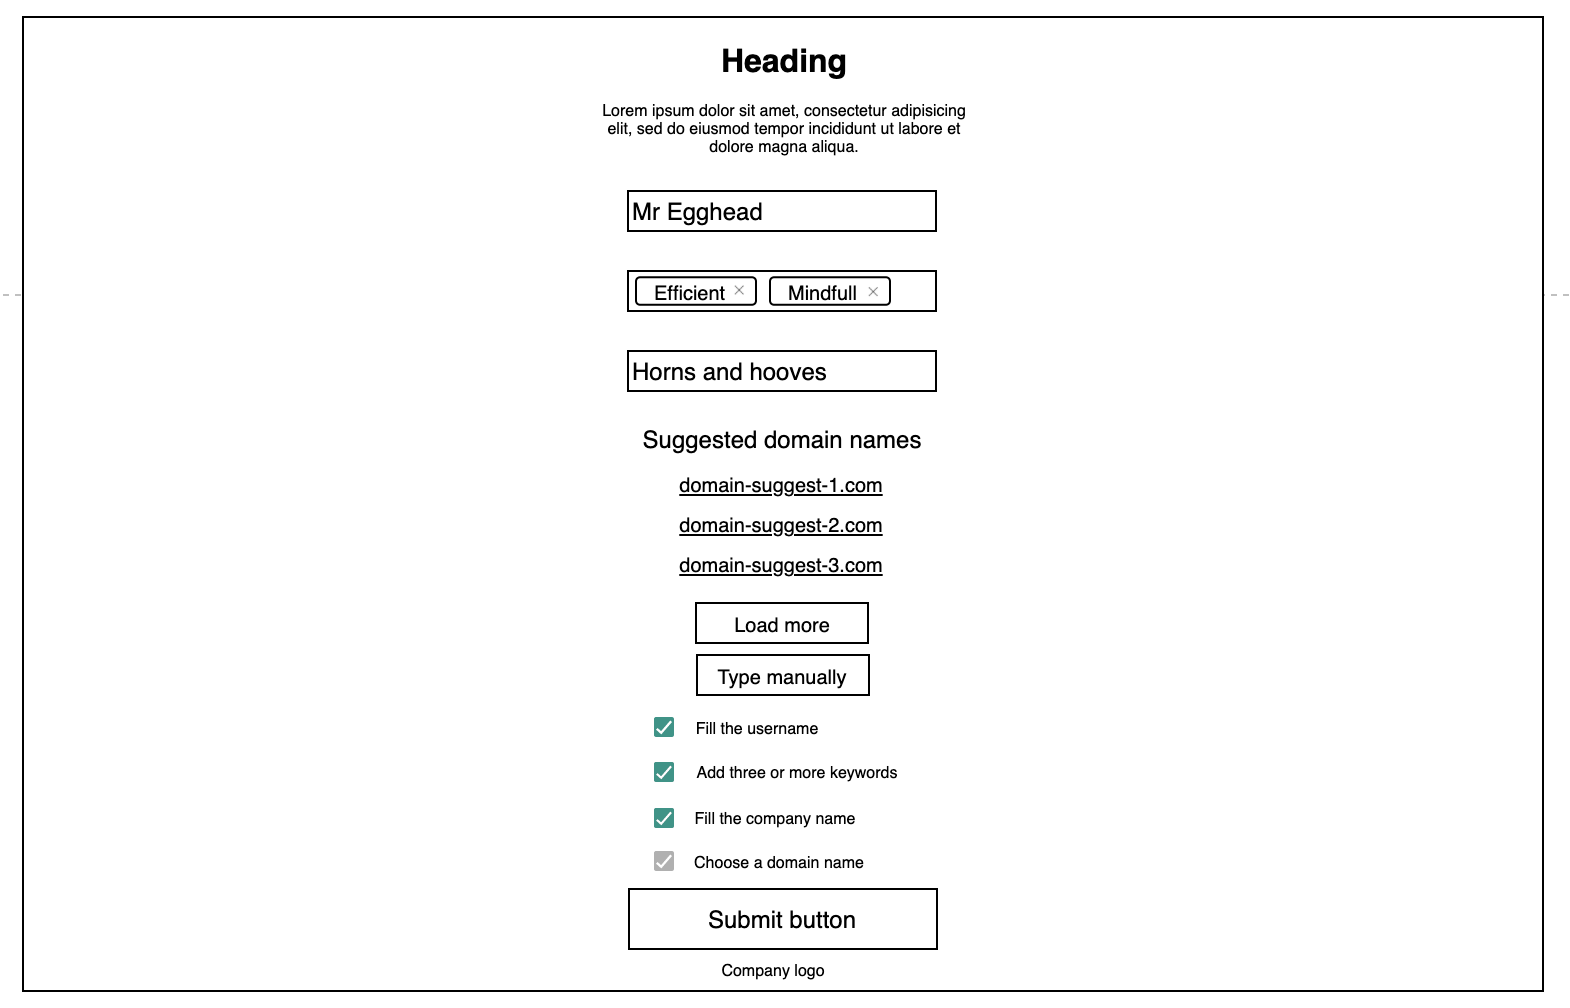
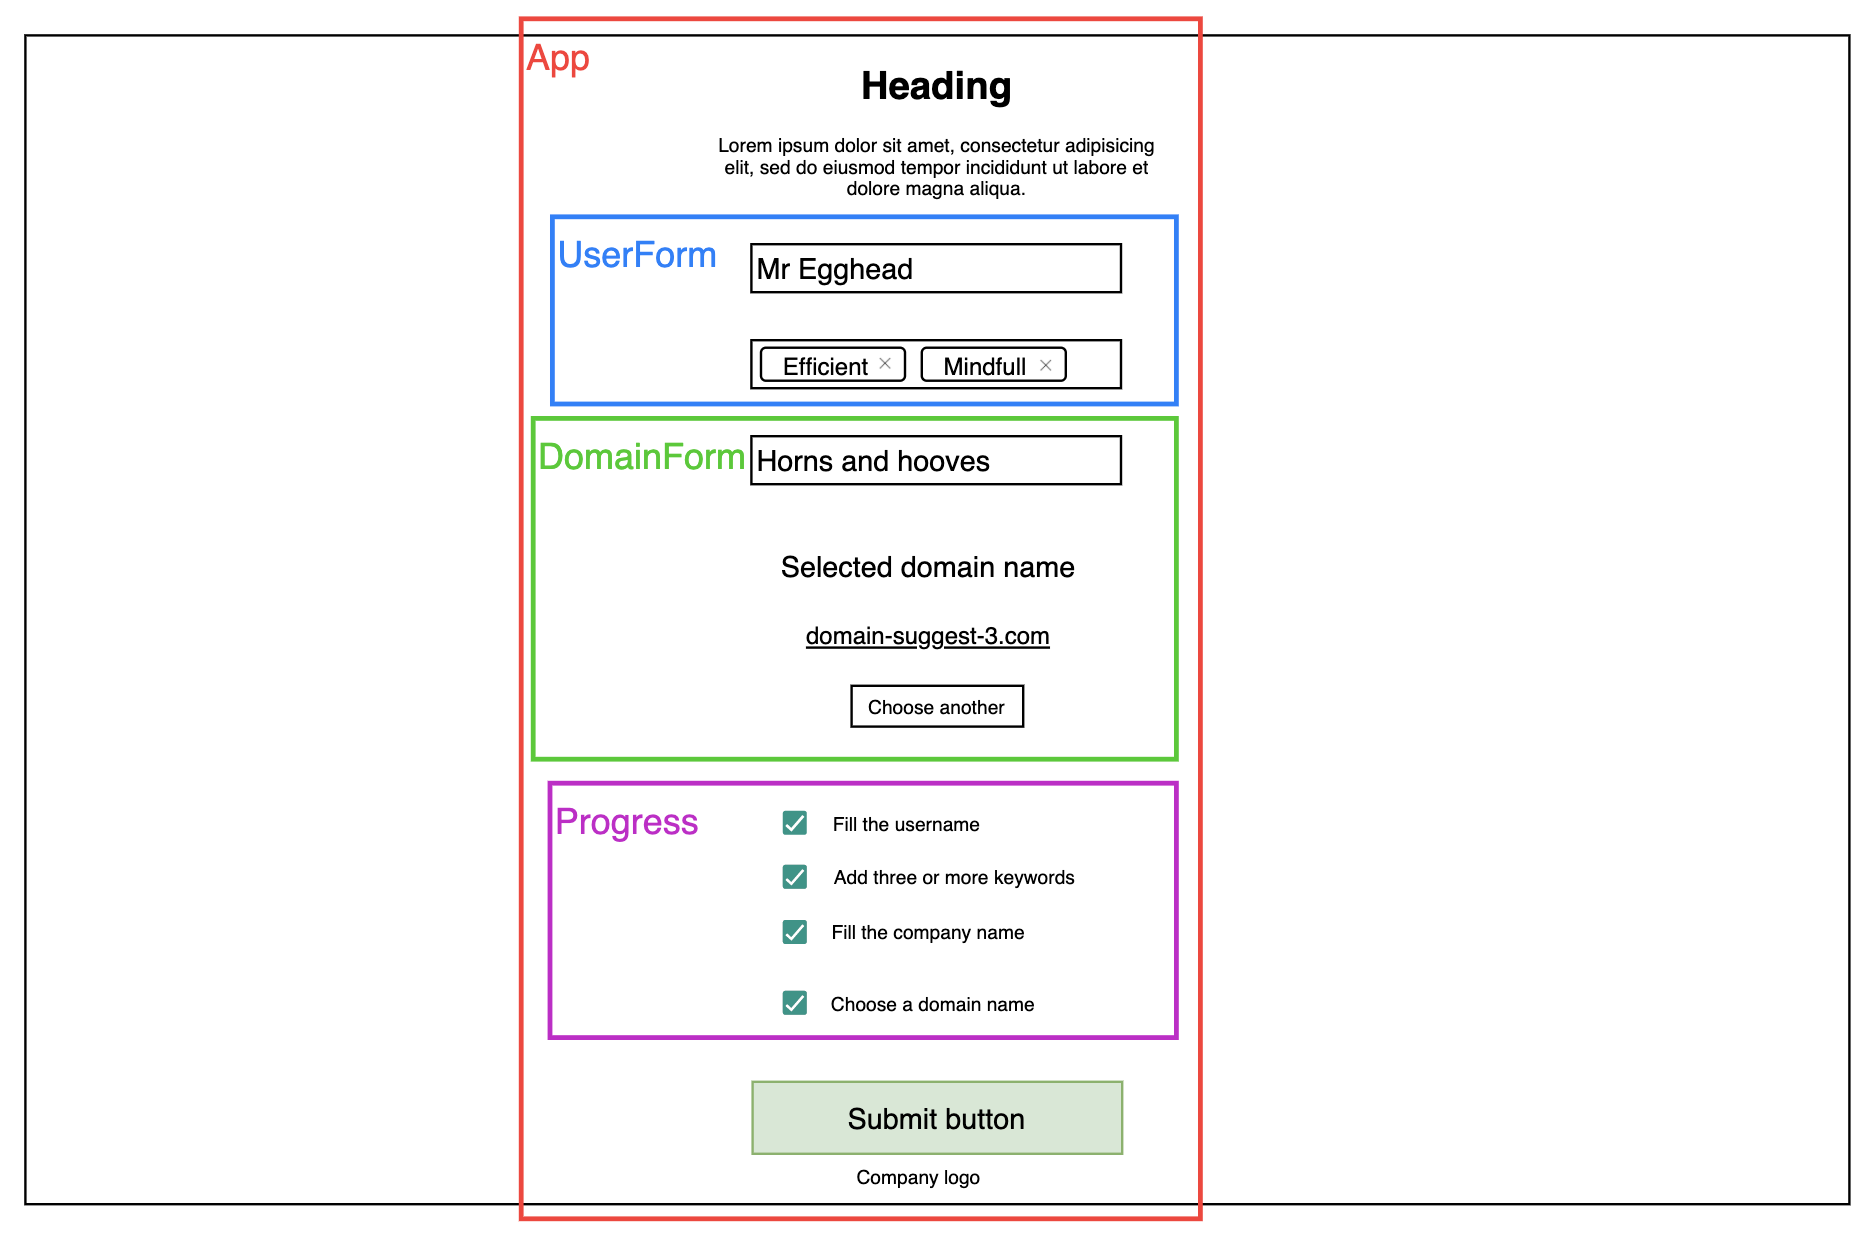
updates - update progress component - move domain input to domain-form component - update readme

Changed region(s): [[0.0, 0.0, 0.9987, 0.9841]]

diff --git a/components/user-form.tsx b/components/user-form.tsx
@@ -1,18 +1,24 @@
-import { Box, Stack } from "@chakra-ui/layout";
 import {
+  Input,
+  Box,
+  Stack,
   FormControl,
   FormLabel,
-  FormErrorMessage,
   FormHelperText,
-  Input,
 } from "@chakra-ui/react";
+import { useService } from "@xstate/react";
 import CreatableSelect from "react-select/creatable";
 
+import { stateService } from "../lib/state";
 import keywords from "../public/keywords.json";
 
 const options = keywords.map((keyword) => ({ label: keyword, value: keyword }));
 
 const UserForm: React.FC = () => {
+  const [current, send] = useService(stateService);
+
+  const { user, keywords } = current.context;
+
   const handleChange = (newValue: any, actionMeta: any) => {
     console.group("Value Changed");
     console.log(newValue);
@@ -45,13 +51,6 @@ const UserForm: React.FC = () => {
         <FormHelperText>
           Specify keywords related to your business, you can add your own if
           there are no suitable ones in the list
-        </FormHelperText>
-      </FormControl>
-      <FormControl id="company-name">
-        <FormLabel>Company name</FormLabel>
-        <Input type="text" />
-        <FormHelperText>
-          How would you like to name your company?
         </FormHelperText>
       </FormControl>
     </Stack>

diff --git a/components/progress.tsx b/components/progress.tsx
@@ -1,7 +1,29 @@
-import { Box } from "@chakra-ui/layout";
+import { CheckCircleIcon } from "@chakra-ui/icons";
+import { Box, Flex, Heading, Stack, Text } from "@chakra-ui/layout";
+
+const ProgressItem: React.FC<{ text: string; completed?: boolean }> = ({
+  text,
+  completed = false,
+}) => {
+  return (
+    <Stack isInline alignItems="center">
+      <CheckCircleIcon color={completed ? "green.500" : "gray.400"} />
+      <Text>{text}</Text>
+    </Stack>
+  );
+};
 
 const Progress: React.FC = () => {
-  return <Box>Progress</Box>;
+  return (
+    <Box>
+      <Stack spacing={2}>
+        {/* <Heading as="h5" size="sm">Progress</Heading> */}
+        <ProgressItem text="Username filled" />
+        <ProgressItem text="Keywords listed" />
+        <ProgressItem text="Domain name selected" />
+      </Stack>
+    </Box>
+  );
 };
 
 export default Progress;

diff --git a/pages/index.tsx b/pages/index.tsx
@@ -6,16 +6,12 @@ import { Box, Code, Heading, Stack } from "@chakra-ui/layout";
 import { useService } from "@xstate/react";
 
 import config from "../public/app-config.json";
-import { stateService } from "../lib/state";
+
 import UserForm from "../components/user-form";
 import DomainForm from "../components/domain-form";
 import Progress from "../components/progress";
 
 export default function App() {
-  const [current, send] = useService(stateService);
-  const active = current.matches("active");
-  const { count } = current.context;
-
   return (
     <Box
       h="full"
@@ -32,7 +28,7 @@ export default function App() {
         />
         <link rel="icon" href="/favicon.png" />
       </Head>
-      <Stack spacing="12">
+      <Stack spacing="8">
         <Box textAlign="center">
           {config.heading && (
             <Heading as="h1" size="2xl">

diff --git a/lib/state.ts b/lib/state.ts
@@ -1,23 +1,23 @@
 import { createMachine, assign, interpret } from "xstate";
 
 interface State {
-  count: number;
+  user: string;
+  keywords: string[];
+  company: string;
+  domain: string;
 }
 
 const stateMachine = createMachine<State>({
-  id: "toggle",
-  initial: "inactive",
+  id: "form",
+  initial: "formFilling",
   context: {
-    count: 0,
+    user: "",
+    keywords: [],
+    company: "",
+    domain: "",
   },
   states: {
-    inactive: {
-      on: { TOGGLE: "active" },
-    },
-    active: {
-      entry: assign({ count: (ctx) => ctx.count + 1 }),
-      on: { TOGGLE: "inactive" },
-    },
+    formFilling: {},
   },
 });
 

diff --git a/components/domain-form.tsx b/components/domain-form.tsx
@@ -1,7 +1,23 @@
-import { Box } from "@chakra-ui/layout";
+import {
+  Box,
+  FormControl,
+  FormLabel,
+  FormHelperText,
+  Input,
+} from "@chakra-ui/react";
 
 const DomainForm: React.FC = () => {
-  return <Box>Domain form</Box>;
+  return (
+    <Box>
+      <FormControl id="company-name">
+        <FormLabel>Company name</FormLabel>
+        <Input type="text" />
+        <FormHelperText>
+          How would you like to name your company?
+        </FormHelperText>
+      </FormControl>
+    </Box>
+  );
 };
 
 export default DomainForm;

diff --git a/README.md b/README.md
@@ -1,6 +1,6 @@
 # Homework#1
 
-## Requirements
+## Requirements ✔
 
 We need to develop a SPA that allows us to collect customer information and offer free domain names for registration
 
@@ -10,7 +10,7 @@ Key features:
 - A list of adjectives for combining with business keywords
 - Make an API request to domainsdb.info to check availability
 
-## Principles
+## Principles 🧭
 
 When developing a solution, we will be guided by the following principles
 
@@ -19,9 +19,9 @@ When developing a solution, we will be guided by the following principles
 - **Compatibility** - the web application should be convenient to use both in the desktop and in the mobile version
 - **Usability** - in the process of interacting with the application, the user has a clear idea of what is expected of him at every step
 
-## Mockup plan
+## <a name="mockup"></a> Mockup plan 🎯
 
-To achieve our goal 🎯 consider the main ideas for the implementation of the task:
+To achieve our goal consider the main ideas for the implementation of the task:
 
 - The web application is a single page form with a set of fields and a step-by-step progress indicator
 - By filling in the required form fields, the user will be able to choose any of the offered free domain names
@@ -29,7 +29,7 @@ To achieve our goal 🎯 consider the main ideas for the implementation of the t
 
 For clarity, let's create layouts of the web application drawn in `draw.io`
 
-### Home screen
+### Home screen 🖥
 
 We have the following items
 
@@ -62,7 +62,7 @@ When the domain name is selected, the form is considered fully completed and the
 
 ![Submitting](/layouts/submitting.png?raw=true "Submitting")
 
-## Development plan
+## Development plan 📝
 
 ### Defining the stack
 
@@ -85,20 +85,66 @@ Let's split the application into logical components with the following structure
 
 ![Components](/layouts/components.png?raw=true "Components")
 
-## State management
+## State management 🪢
 
-State management plays a key role in the operation of our application
+### Global and local state
 
 Our application state can be conditionally divided into `global state` and `local state`
 
-- `Global state`, which will be implemented in `XState`, describes the state of all form fields, it will be available for any application component
-- `Local state` contains an intermediate state of the interface, for example, such a state can be in the ]]`DomainForm` component that displays information about the status of the API request for domain availability and a list of available domains
+- `Global state` this part of state wi going to implement with `XState`, it describes the state of entire application, in our case it will contain information about the state of all fields, the progress of filling out the form and its validity
+- `Local state` this part of state will implement on pure React, it represents separate parts of the application state, containing, for example, intermediate states of the interface, such a state, for example, can be in the `DomainForm` component that displays information about the status of the API request for domain availability and a list of available domains
   - Let's dive deeper into this question, the `DomainForm` component can have the following states:
-    - Empty state - when you first open the application, this component is empty
-    - Name availability check - when the user enters the company name, the component sends a request to check the name availability, at this moment the spinner is displayed
+    - Idle state - when you first open the application, this component does not contain information about available domains
+    - Name availability checking - when the user enters the company name, the component sends a request to check the name availability, at this moment the spinner is displayed
     - Displaying a list of available names - after receiving a response from the server, the component displays a list of available options
-    - Manual name entry - if the user did not find a suitable name among the proposed ones, he can try to enter the desired name manually
+    - Manual name entring - if the user did not find a suitable name among the proposed ones, he can try to enter the desired name manually
     - Selected domain name - when the user clicks on one of the suggested domain names or enters it manually, it is saved to the global state and displayed as selected
+
+### Modeling the state
+
+Let's consider the shape of `global state` in `XState` terms
+
+```typescript
+interface State {
+  user: string;
+  keywords: string[];
+  company: string;
+  domain: string;
+}
+
+const stateMachine = createMachine<State>({
+  id: "form",
+  initial: "formFilling",
+  context: {
+    user: "",
+    keywords: [],
+    company: "",
+    domain: "",
+  },
+  states: {
+    formFilling: {},
+  },
+});
+```
+
+### Context or not context
+
+What should we do to make application state available on every application component?
+Of course, we can use the classic tool for this task - React context
+
+[According this great article](https://swizec.com/blog/react-context-without-context-using-xstate-codewithswiz-14-15/) we can achieve this in another way
+
+The main idea is to transform our state machine into `actor` – independent objects that hold their own state and respond to events.
+And then we can import it as a service that will be available from any app component
+Any changes of our state will envoy rerendering of the app
+
+```typescript
+// state.ts
+import { interpret } from "xstate";
+
+export const stateService = interpret(stateMachine);
+stateService.start();
+```
 
 ## Usage
 
